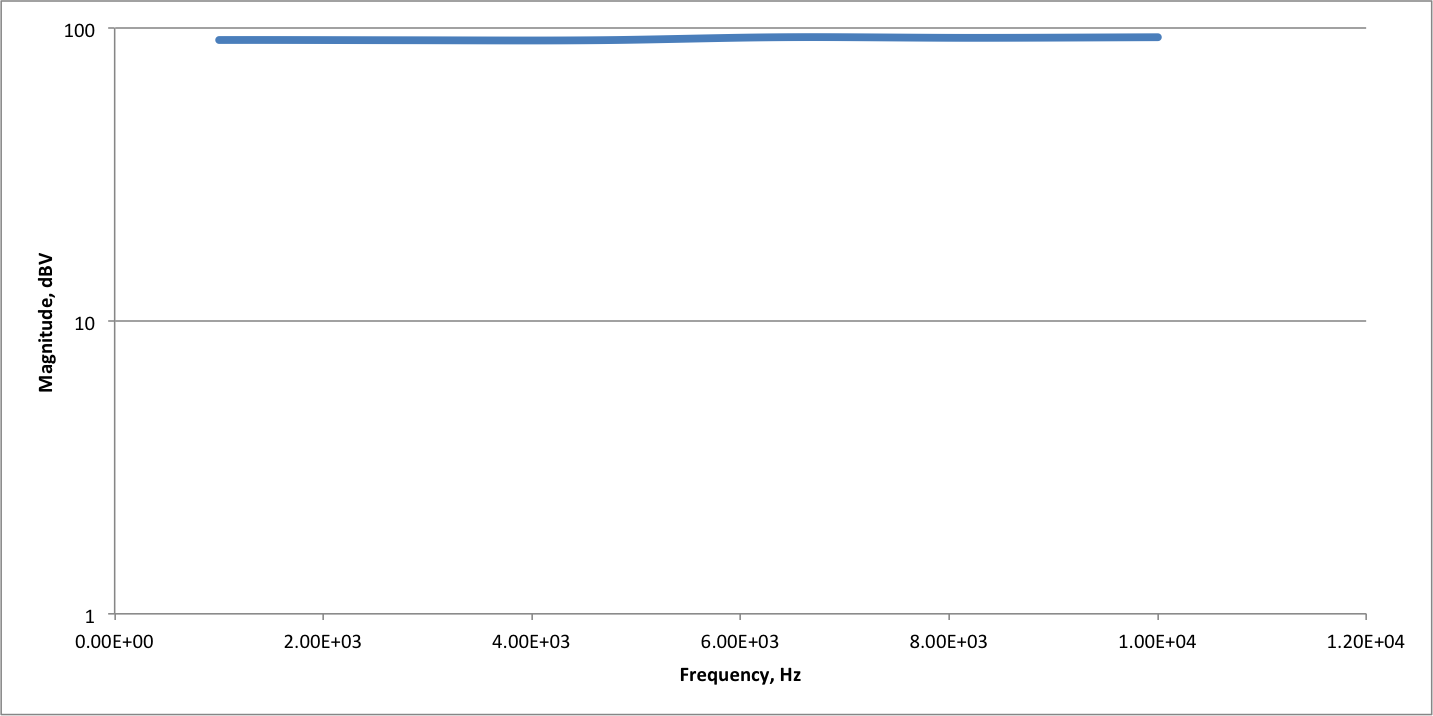
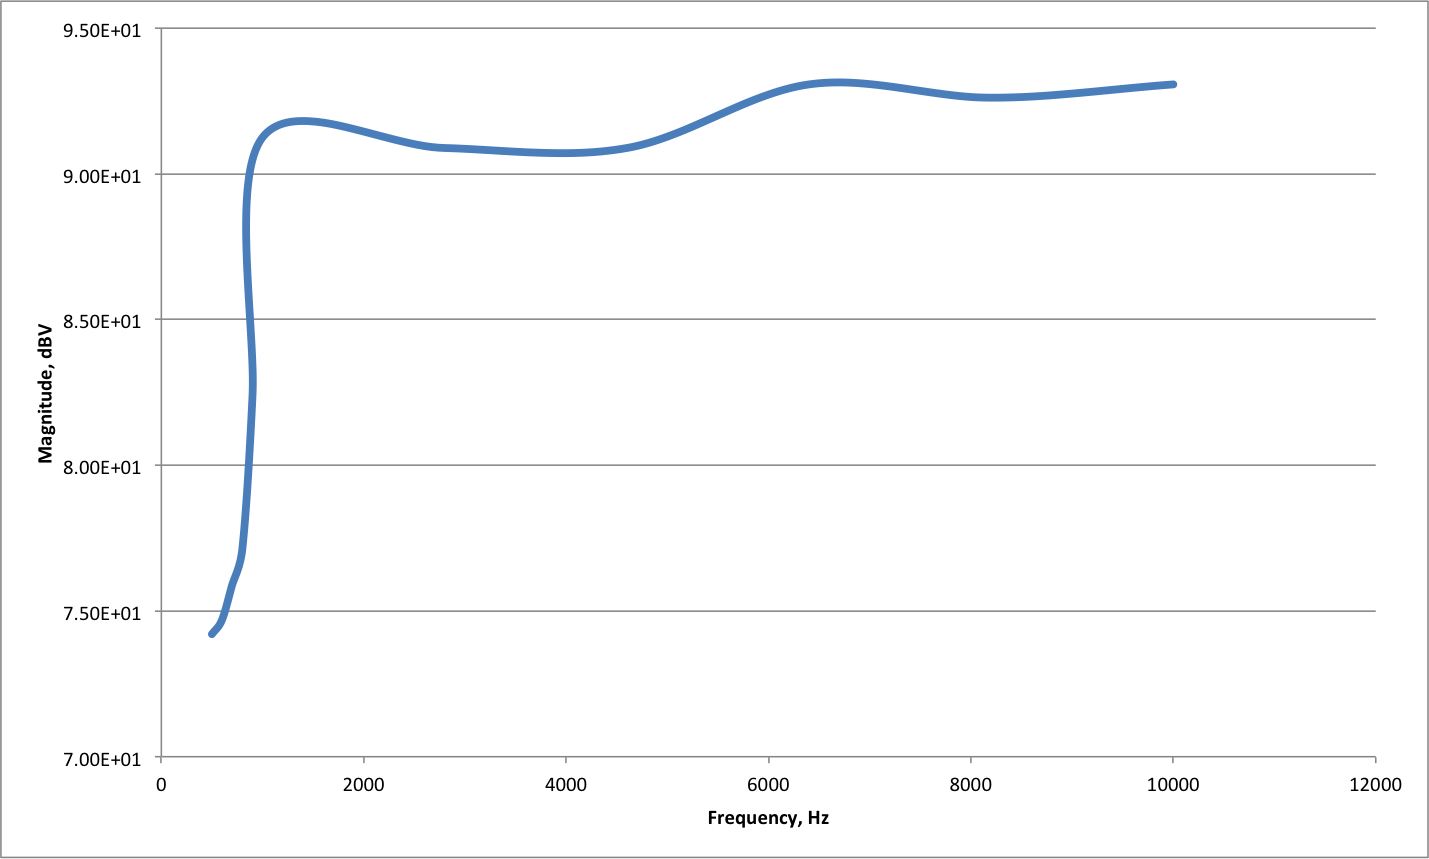
changed plot

diff --git a/EE105MiniProj.tex b/EE105MiniProj.tex
@@ -141,6 +141,11 @@ V_G &= 2.6V
 \hline
 Frequency & Magnitude & Phase\\
 \hline
+$500$ Hz & 74.23 dBV & 180 \\
+$600$ Hz & 74.72 dBV & 180 \\
+$700$ Hz & 75.98 dbV & 180 \\
+$800$ Hz & 77.12 dBV & 180 \\
+$900$ Hz & 82.33 dBV & 180 \\
 $1$ kHz & 91.25 dBV & 180 \\
 $2.8$ kHz & 90.89 dBV & 200 \\
 $4.6$ kHz & 90.89 dBV & 200 \\
